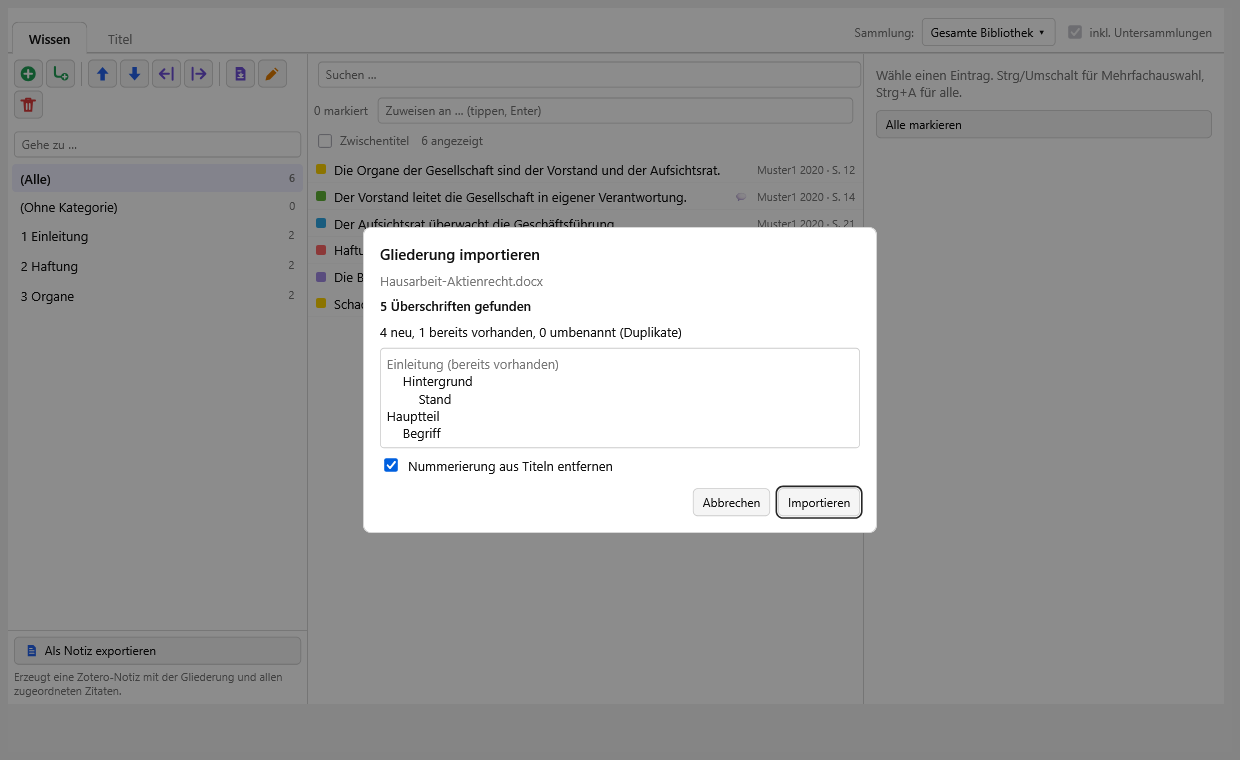
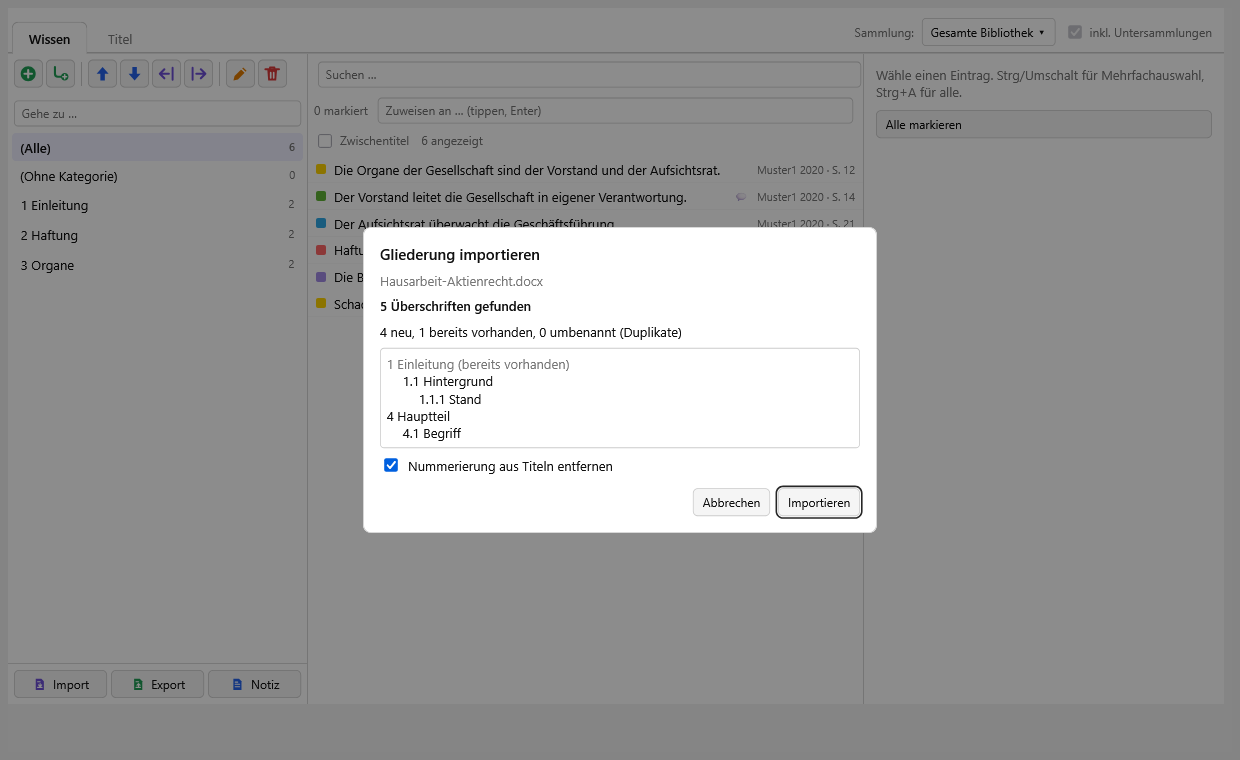
feat(organizer): move import, export and note buttons into one footer row

diff --git a/src/features/organizer/organizerTree.ts b/src/features/organizer/organizerTree.ts
@@ -71,12 +71,6 @@ export function renderTree(ctx: Ctx, c: HTMLElement, t: Palette) {
     iconButton(doc, t, "outdent", tr("outdent"), act(outdent)),
     iconButton(doc, t, "indent", tr("indent"), act(indent)),
     sep(),
-    iconButton(doc, t, "importDoc", tr("importTitle"), () => {
-      void docImport.start(ctx);
-    }),
-    iconButton(doc, t, "exportDoc", tr("exportDocTitle"), () => {
-      void docExport.start(ctx);
-    }),
     iconButton(doc, t, "rename", tr("rename"), () => {
       if (selNode) {
         s.renaming = s.node;
@@ -107,7 +101,24 @@ export function renderTree(ctx: Ctx, c: HTMLElement, t: Palette) {
     "div",
     `border-top:1px solid ${t.border};padding:6px;display:flex;flex-direction:column;gap:4px;`,
   );
-  foot.append(
+  const row = el(doc, "div", "display:flex;gap:4px;");
+  row.append(
+    button(
+      doc,
+      t,
+      tr("importLabel"),
+      tr("importTitle"),
+      () => void docImport.start(ctx),
+      "importDoc",
+    ),
+    button(
+      doc,
+      t,
+      tr("exportDocLabel"),
+      tr("exportDocTitle"),
+      () => void docExport.start(ctx),
+      "exportDoc",
+    ),
     button(
       doc,
       t,
@@ -116,8 +127,12 @@ export function renderTree(ctx: Ctx, c: HTMLElement, t: Palette) {
       () => void exportNote(s),
       "export",
     ),
-    el(doc, "span", `font-size:11px;color:${t.sub};`, tr("exportHint")),
   );
+  for (const b of Array.from(row.children) as HTMLElement[]) {
+    b.style.flex = "1";
+    b.style.justifyContent = "center";
+  }
+  foot.append(row);
   if (s.orphans.length) {
     const b = button(
       doc,

diff --git a/src/features/organizer/strings.ts b/src/features/organizer/strings.ts
@@ -20,11 +20,11 @@ const de = {
   rename: "Umbenennen (F2 oder Doppelklick)",
   delete: "Überschrift löschen (Entf)",
   goto: "Gehe zu …",
-  export: "Als Notiz exportieren",
+  importLabel: "Import",
+  exportDocLabel: "Export",
+  export: "Notiz",
   exportTitle:
     "Legt eine neue Zotero-Notiz an: alle Überschriften in Reihenfolge, darunter die zugeordneten Zitate mit Quellenangabe.",
-  exportHint:
-    "Erzeugt eine Zotero-Notiz mit der Gliederung und allen zugeordneten Zitaten.",
   exportDone: "Notiz angelegt: {h} Überschriften, {n} Einträge.",
   exportNoteTitle: "Gliederung mit Zitaten",
   newHeading: "Neue Überschrift",
@@ -138,10 +138,11 @@ const en: Record<Key, string> = {
   rename: "Rename (F2 or double-click)",
   delete: "Delete heading (Del)",
   goto: "Go to …",
-  export: "Export as note",
+  importLabel: "Import",
+  exportDocLabel: "Export",
+  export: "Note",
   exportTitle:
     "Creates a new Zotero note: all headings in order, with the assigned quotes and their sources below.",
-  exportHint: "Creates a Zotero note with the outline and all assigned quotes.",
   exportDone: "Note created: {h} headings, {n} entries.",
   exportNoteTitle: "Outline with quotes",
   newHeading: "New heading",

diff --git a/test/features.test.ts b/test/features.test.ts
@@ -549,7 +549,7 @@ describe("FlexAnnotate features", function () {
     });
 
     it("explains and performs the note export", async function () {
-      const btn = buttonWith(/Als Notiz exportieren|Export as note/)!;
+      const btn = buttonWith(/^\s*(Notiz|Note)\s*$/)!;
       assert.ok(btn, "export button");
       assert.match(btn.title, /Notiz|note/i);
       click(btn);

diff --git a/CHANGELOG.md b/CHANGELOG.md
@@ -20,6 +20,7 @@ Format nach [Keep a Changelog](https://keepachangelog.com/), Versionierung nach 
 - Zotero 7.x ohne `Zotero.MenuManager`: Eintrag _Werkzeuge → FlexAnnotate: Organizer_ direkt im Werkzeugmenü (`features/organizer/toolsMenuFallback.ts`).
 - Gliederungsimport aus Word/LibreOffice: Button mit Dokument-Symbol in der Werkzeugleiste der Gliederung. Erkennt Überschriften-Formatvorlagen (`.docx`: „Überschrift/Heading 1–9“, benutzerdefinierte Vorlagen mit `outlineLvl`; `.odt`: `text:h`), zeigt eine Vorschau (neu, vorhanden, umbenannt; mehrstufige Nummerierung `1`, `1.1` …; Option „Nummerierung aus Titeln entfernen“ nur bei erkannter Nummerierung) und hängt an, ohne etwas zu löschen oder zu verschieben. Gleiche Titel unter gleichem Elternknoten werden wiederverwendet, Duplikate heißen „Titel (2)“. Gesperrte Dateien (anderes Programm hält die Datei offen) bekommen eine eigene Meldung statt „kein gültiges Dokument“, alte `.doc`-Dateien einen Hinweis, sie als `.docx` zu speichern. Grenzen: nur Absatz-Formatvorlagen, Fußnoten und gelöschte Änderungen fehlen im Titel, kein `.doc`/`.rtf`, 50 MB je XML-Eintrag (`features/organizer/docImport.ts`, `core/docOutline.ts`).
 - Gliederungsexport als Word/ODT: Button in der Gliederungsleiste schreibt die Überschriften als `.docx` oder `.odt` mit den Standard-Formatvorlagen („Überschrift/Heading 1–9“) und einer mehrstufigen, automatischen Nummerierung („1“, „1.1“ …), die in Word/LibreOffice mitläuft (`features/organizer/docExport.ts`, `core/docExport.ts`). Ist die Zieldatei geöffnet oder schreibgeschützt, schlägt das Schreiben mit einer Meldung fehl, statt die Datei zu beschädigen; der Dateidialog fragt vor dem Überschreiben.
+- Organizer-Fußzeile: _Import_, _Export_ (Word/ODT) und _Notiz_ stehen als drei Knöpfe mit Icon in einer Zeile unter dem Baum (vorher Import/Export als Icons in der Werkzeugleiste, „Als Notiz exportieren“ als breiter Knopf mit Erklärtext); die Beschreibung erscheint als Tooltip.
 - Organizer-Fensterverwaltung als Single-Instance: Menü und Toolbar-Button fokussieren und stellen ein bereits geöffnetes Organizer-Fenster wieder her, statt Duplikate zu öffnen; das offene Fenster schließt sauber beim Entladen des Plugins (`features/organizer/organizer.ts`).
 - Zitierdialog aus Word: Die rechte Spalte behält mit und ohne Gliederungsansicht die native Breite (vorher feste 330 px). Die Suchleiste des Dialogs filtert die Gliederungsliste mit (gespiegelt ins Filterfeld des Plugins, nicht umgekehrt). Neuer Knopf „Zitatstelle anzeigen“ in der Vorschau öffnet den Reader an der Annotation und holt Zotero nach vorn; der Dialog bleibt offen.
 - Citavi-Import: Dublettenprüfung. Ein zweiter Import desselben Exports legt nichts neu an; gleich sind Platzhalter (Werk), Seitenlabel und normalisierter Zitattext, bei leerem Text Seitenlabel und Kommentar.

diff --git a/README.md b/README.md
@@ -30,7 +30,7 @@ FlexAnnotate füllt diese Lücken und bringt einen Organizer mit, der Annotation
 
 - **Gliederung:** Überschriften (beliebig verschachtelt, Dezimalnummern nur zur Anzeige) ordnen Annotationen und Werke per Drag and Drop oder Zuweisungsleiste. Tabs „Wissen“ (Annotationen) und „Titel“ (Werke), Auswahl der Sammlung, Bearbeiten von Zitattext, Kommentar, Zitatstelle und Locator, Tastaturbedienung. Der Organizer öffnet sich über den Toolbar-Button (zweites Symbol von rechts, vor dem Sync-Button).
 - **Kategorienbaum pro Sammlung:** Jede Sammlung auf oberster Ebene kann einen eigenen Gliederungsbaum haben. Das Sammlungs-Drop-down im Organizer wechselt Baum und Eintrags-Filter gleichzeitig: Bei einer Untersammlung zeigt der Baum der Hauptsammlung, aber nur deren Einträge. Rechtsklick auf eine Sammlung im Zotero-Fenster (_FlexAnnotate: Organizer für diese Sammlung_) öffnet den Organizer direkt dafür. Beim ersten Öffnen einer Sammlung ohne eigenen Baum fragt der Organizer einmal, ob der bestehende Bibliotheksbaum als Anfang übernommen werden soll. Umbenennen und Löschen einer Überschrift wirken nur auf die Werke dieser Hauptsammlung; liegt ein Werk in zwei Hauptsammlungen, teilen sich beide Bäume seine Überschriften-Tags (Hinweis „auch in Baum“). Tags, deren Überschrift anderswo (ohne Plugin) umbenannt wurde, ordnet der Knopf _Verwaiste Tags_ unter dem Baum einer Überschrift neu zu. Löschst du eine Sammlung, bleibt ihre Baum-Notiz (Tag `#flexannotate-outline-<key>`) als harmlose Waise liegen.
-- **Export:** „Als Notiz exportieren“ legt eine Zotero-Notiz mit der Gliederung und den zugeordneten Zitaten an. „Zitatstelle öffnen“ springt zur Annotation im Reader.
+- **Export:** Unter dem Baum stehen drei Knöpfe: „Import“ und „Export“ (Word/ODT-Gliederung) sowie „Notiz“. „Notiz“ legt eine Zotero-Notiz mit der Gliederung und den zugeordneten Zitaten an. „Zitatstelle öffnen“ springt zur Annotation im Reader.
 
 ![Organizer mit Gliederung, Annotationsliste und Detailbereich](docs/img/organizer.png)
 
